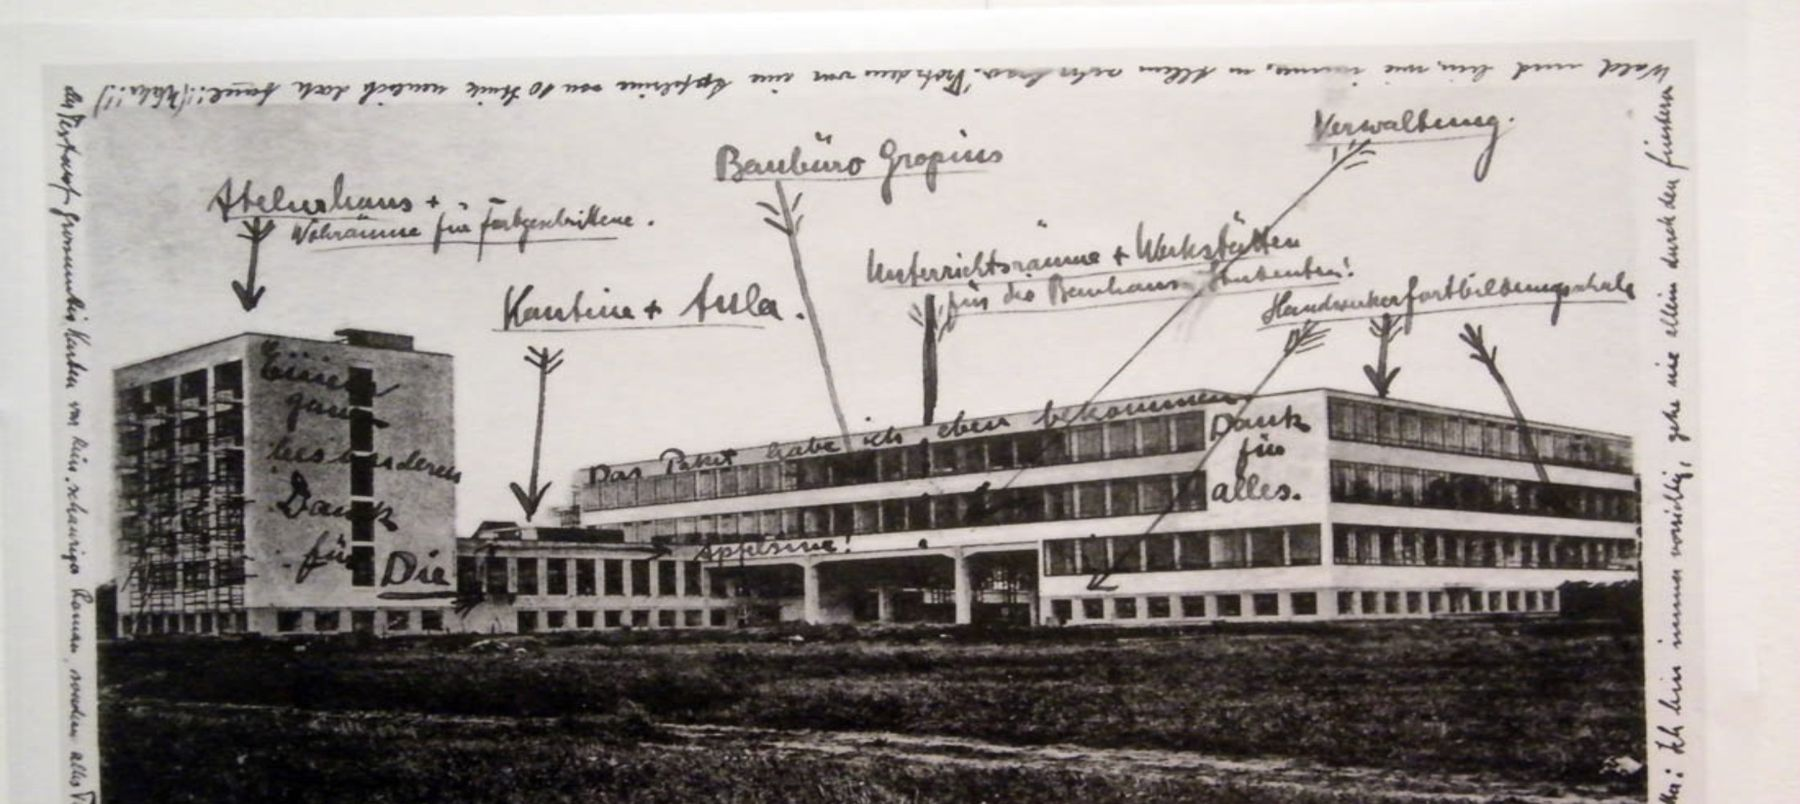
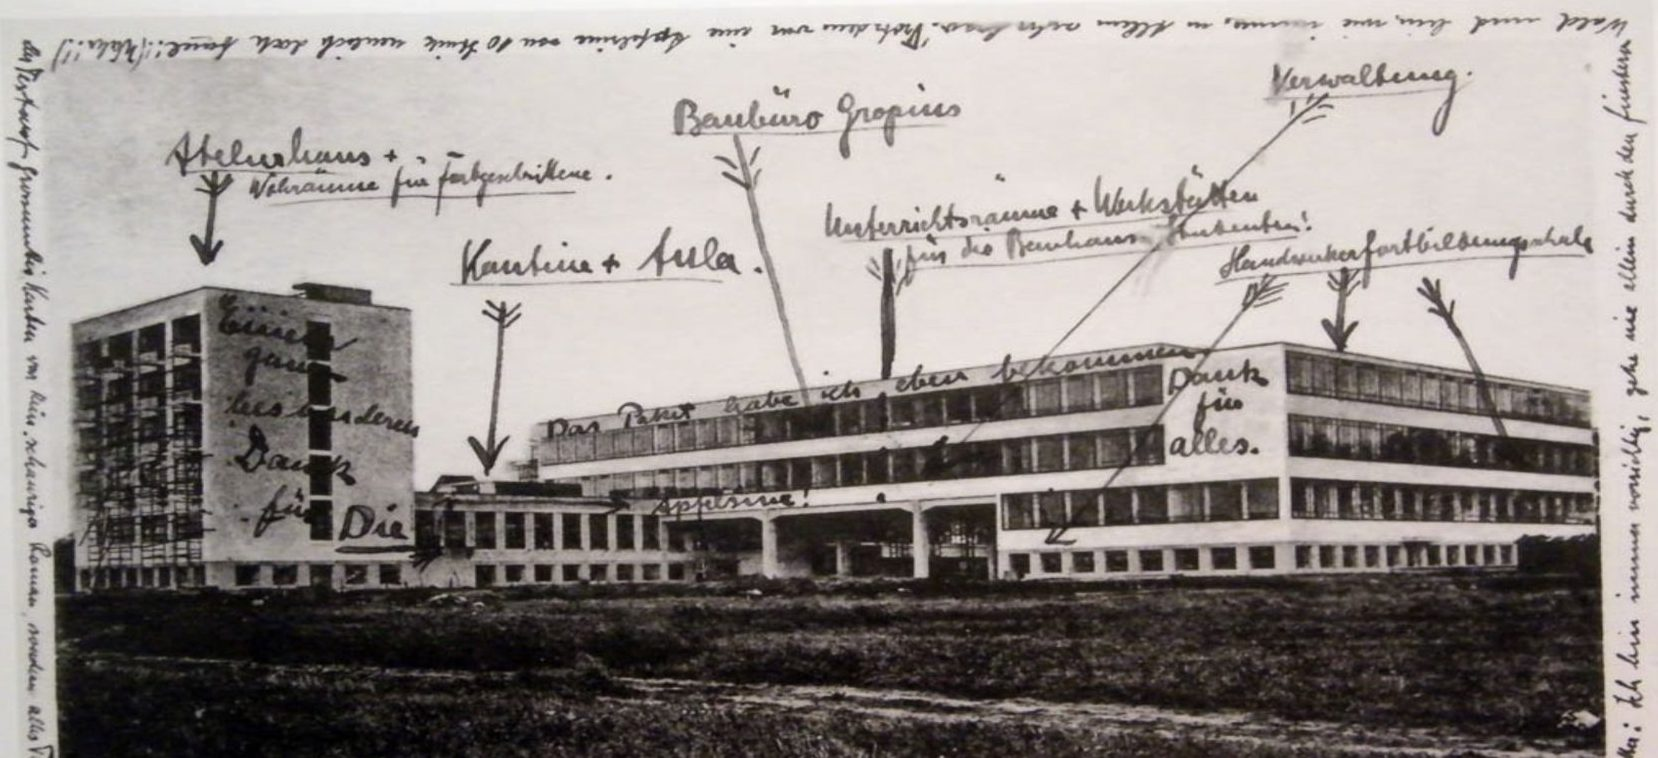
Nossas aulas sem índice; linguagens em grade compacta; foto da Bauhaus recortada e de ponta a ponta no celular
Claude-Session: https://claude.ai/code/session_01JeSu6x72z2jgKp8haRcr38

diff --git a/src/style.css b/src/style.css
@@ -439,3 +439,16 @@ a.ext:hover .seta-ext,.btn-ext:hover .seta-ext{transform:translate(2px,-2px)}
 .ficha dd{color:var(--preto)}
 .dividido__img{background:var(--claro2)}
 .duas .meios.lado{display:block;gap:0}
+
+/* Formação contínua: grade compacta de linguagens (cresce sem alongar a página) */
+.duas .meios.lado{display:grid;grid-template-columns:repeat(2,minmax(0,1fr));column-gap:var(--gap);border-top:1px solid var(--claro)}
+.meios li{min-height:52px;font-size:1.25rem;line-height:1.2;padding-block:12px}
+@media (min-width:990px){ .duas .meios.lado{grid-template-columns:repeat(3,minmax(0,1fr))} .meios li{font-size:1.5rem;min-height:64px} }
+
+/* Sobre: foto da Bauhaus. Inteira no computador; no celular, de ponta a ponta e num recorte 4:3 */
+.foto-inteira img{display:block}
+@media (max-width:749px){
+  .foto-inteira{padding-left:0;padding-right:0}
+  .foto-inteira img{aspect-ratio:4/3;object-fit:cover;object-position:6% 50%}
+}
+.ab-foto{padding-bottom:var(--b-midia)}

diff --git a/build.py b/build.py
@@ -315,7 +315,7 @@ def build():
     pagina("sobre.html", "Sobre",
       "O ver tem gramática, e essa gramática se ensina. O manifesto e a história do Alma.",
       abertura("Sobre o Alma", "Toda forma que vemos é resultado de uma operação: distribuição de luz, organização de valores, articulação de cheios e vazios no campo. O olho constrói a imagem que recebe. O Alma ensina o domínio dessa construção a partir de uma convicção: o ver tem gramática, e essa gramática se ensina.", escura=True) + f'''
-<figure class="foto-inteira wrap"><img src="img/sobre-bauhaus.jpg" alt="Fotografia do edifício da Bauhaus em Dessau, com anotações manuscritas" width="1800" height="804" loading="lazy"></figure>
+<figure class="foto-inteira wrap"><img src="img/sobre-bauhaus.jpg" alt="Fotografia do edifício da Bauhaus em Dessau, com anotações manuscritas" width="1658" height="758" loading="lazy"></figure>
 <section class="bloco wrap" id="manifesto">
   <div class="duas cab rev"><h2 class="cab__rot">Manifesto</h2><div class="lado"><div class="corpo">{LOREM1}</div></div></div>
 </section>
@@ -346,7 +346,6 @@ def build():
     <h1 class="t1 ab-foto__tit">Nossas aulas</h1>
     <p class="ab-foto__sub">Um atelier de formação para adultos, com turmas pequenas e acompanhamento individual.</p>
   </div>
-  <nav class="indice" aria-label="Nesta página"><a href="#percurso">O percurso</a><a href="#formacao">Formação</a><a href="#no-atelier">No atelier</a><a href="#faq">Perguntas</a></nav>
 </section>
 <section class="frase wrap">
   <p class="frase__txt rev">Todo aluno começa pelo Desenho e pela Plástica. A partir deles, cada um encontra o seu meio e, com o tempo, a <em>própria luz</em>.</p>
@@ -359,7 +358,7 @@ def build():
   {duas("Formação", "Duas disciplinas de base e seis linhas de aprofundamento.", corpo("O percurso começa no currículo comum a todos e se abre conforme a decisão de cada aluno, sempre com acompanhamento individual dentro da turma."))}
   <div class="bases apos">{"".join(f'<article class="base rev"><div class="base__img"><img src="img/{img}" alt="" loading="lazy"></div><h3 class="base__tit">{t}</h3><p class="texto-cartao">{d}</p></article>' for img, t, d in BASES)}</div>
   <div class="duas cab continua">
-    <div class="rev"><h3 class="cab__rot">Formação contínua</h3><p class="texto-cartao continua__txt">Concluído o currículo básico, o aluno escolhe o meio em que quer se aprofundar.</p></div>
+    <div class="rev"><h3 class="cab__rot">Formação contínua</h3><p class="texto-cartao continua__txt">Concluído o currículo básico, o aluno escolhe a linguagem em que quer se aprofundar.</p></div>
     <ul class="meios lado">{"".join(f'<li class="rev">{m}</li>' for m in MEIOS)}</ul>
   </div>
 </section>
